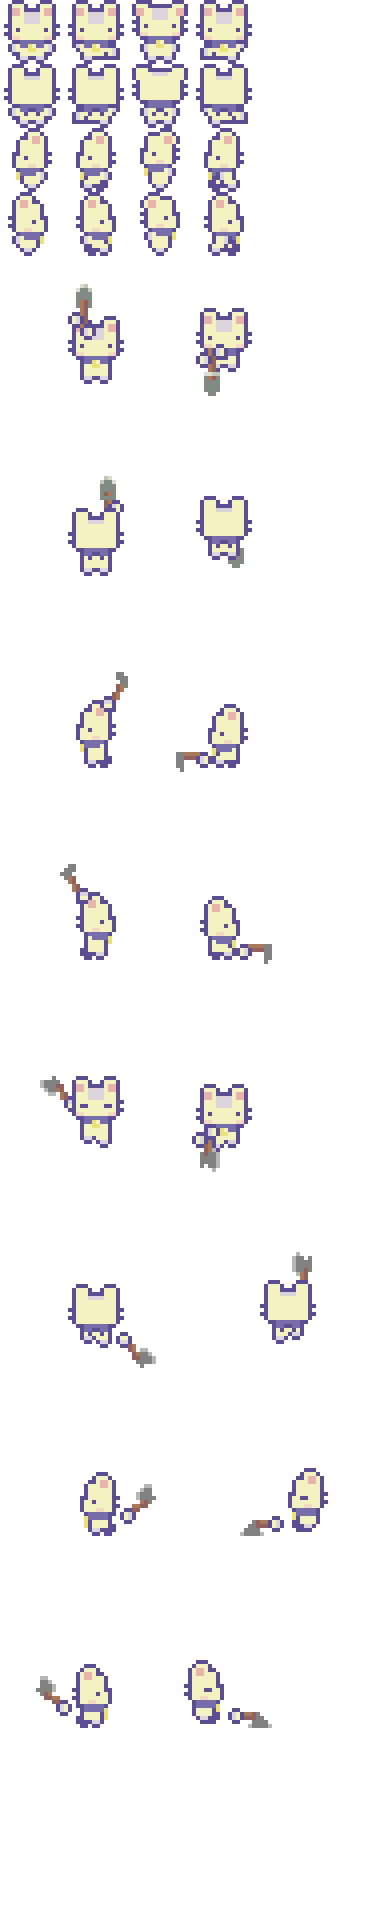
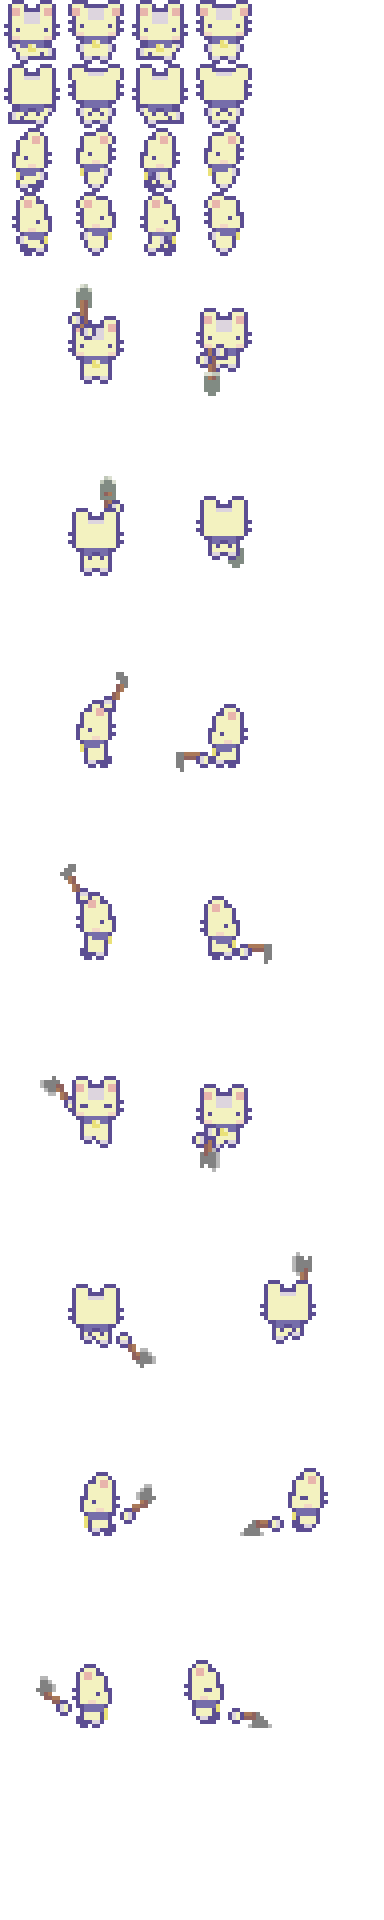
perf: 优化角色走动动画

Changed region(s): [[0.0938, 0.0, 0.6562, 0.1562], [0.0312, 0.0938, 0.125, 0.1562], [0.0312, 0.0312, 0.0625, 0.0625]]

diff --git a/src/base/Player.ts b/src/base/Player.ts
@@ -44,7 +44,7 @@ export class Player {
 	movingDirection = 'down'
 
 	actionFrames = 2
-	currentActionFrame = 0
+	currentActionFrame = 1
 
 	// 挖
 	isDigging = false
@@ -110,7 +110,7 @@ export class Player {
 					}
 				}
 			} else {
-				this.currentFrame = 0
+				this.currentFrame = 1
 				this.gap = 0
 			}
 
@@ -276,7 +276,7 @@ export class Player {
 				}
 			}
 		} else {
-			this.currentActionFrame = 0
+			this.currentActionFrame = 1
 			this.gap = 0
 		}
 

diff --git a/src/base/ItemDock.ts b/src/base/ItemDock.ts
@@ -41,7 +41,7 @@ export class ItemDock {
 		})
 	}
 
-	addItem(type: MaterialType) {
+	addItem(type: MaterialType, count?: number) {
 		const target: Material | undefined = this.list.find(item => item.type === type)
 		if (target) {
 			target.count += 1
@@ -55,7 +55,7 @@ export class ItemDock {
 						// x: this.x + withGrid(1) * this.list.length - 1,
 						// y: this.y + withGrid(1)
 					},
-					count: 1,
+					count: count || 1,
 					type
 				})
 			)

diff --git a/src/base/tree/BerryTree.ts b/src/base/tree/BerryTree.ts
@@ -16,9 +16,11 @@ export interface BerryConfig {
 
 export class BerryTree extends Tree {
 	boundary: Boundary
+	id: string
 
 	constructor(config: BerryConfig) {
 		super(config)
+		this.id = `berryTree-${config.x}-${config.y}`
 
 		this.matureTime = hours(0.5)
 		this.boundary = config.boundary
